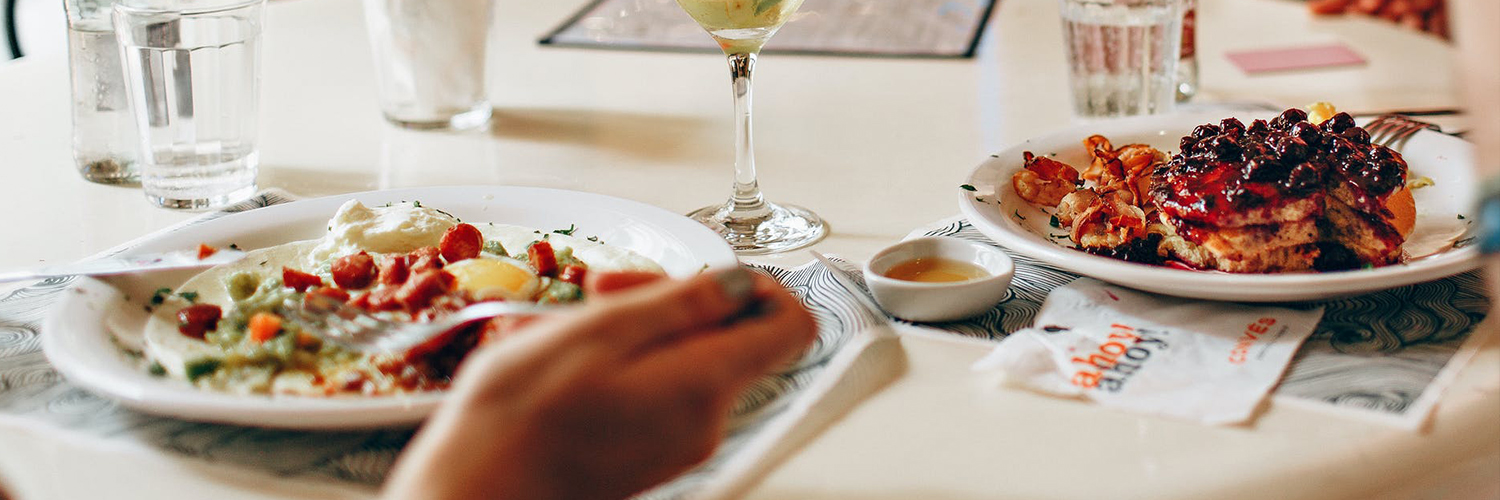
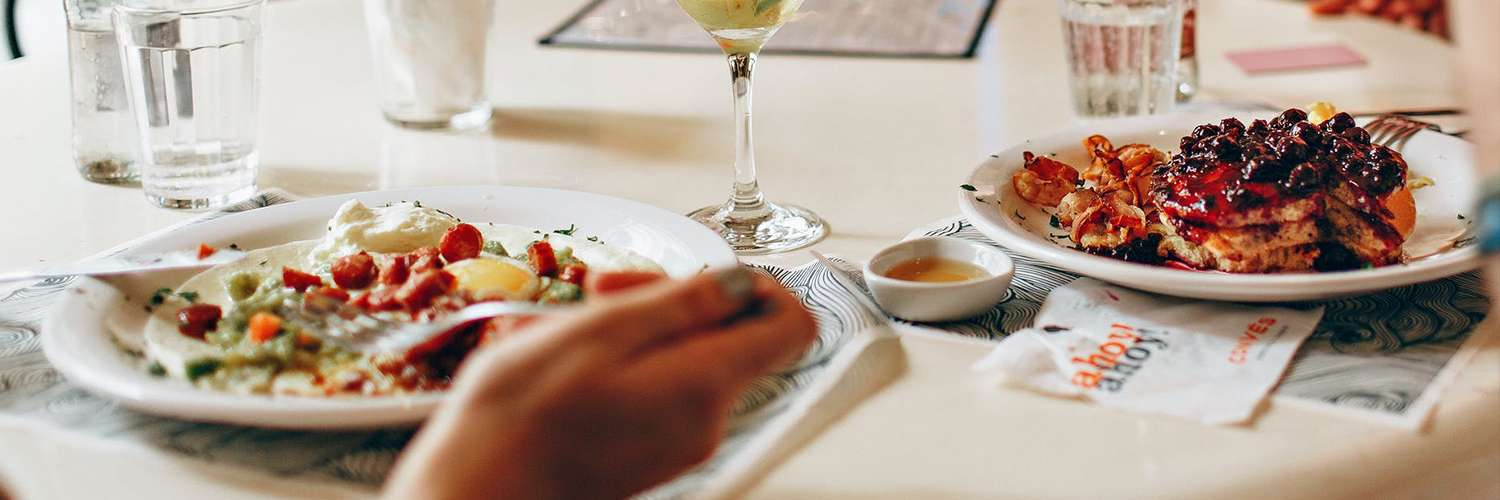
compressed all images using jpeg compressor to help with website load times and mb consumption.

diff --git a/index.html b/index.html
@@ -11,7 +11,7 @@
 </head>
 <body>
 
-    <!-----Nav Bar------------------------------------------->
+    <!----- Nav Bar ------------------------------------------->
 
     <header>
         <div class="container-fluid">
@@ -43,13 +43,13 @@
         </div>
     </header>
 
-    <!-----Hero image---------------------------------------->
+    <!----- Hero image ---------------------------------------->
 
     <div>
         <div class="hero"></div>
     </div>
 
-    <!-----Places of interest-------------------------------->
+    <!----- Places of interest -------------------------------->
 
     <section id="places">
         <br>
@@ -107,7 +107,7 @@
         </div>
     </section>
 
-    <!-----Mid 1 image--------------------------------------->
+    <!----- Mid 1 image --------------------------------------->
 
     <br>
     <hr>
@@ -119,7 +119,7 @@
     <hr>
     <br>
 
-    <!-----Shopping------------------------------------------>
+    <!----- Shopping ------------------------------------------>
 
     <section id="shopping">
         <div class="container-fluid">
@@ -163,7 +163,7 @@
         <br>
     </section>
 
-    <!-----Mid 1 image--------------------------------------->
+    <!----- Mid 1 image --------------------------------------->
 
     <br>
     <hr>
@@ -175,7 +175,7 @@
     <hr>
     <br>
 
-    <!-----Restaurants--------------------------------------->
+    <!----- Restaurants --------------------------------------->
 
     <section id="restaurants">
         <div class="container-fluid">
@@ -219,7 +219,7 @@
         </div>
     </section>
 
-    <!-----Bottom image--------------------------------------->
+    <!----- Bottom image --------------------------------------->
 
     <br>
     <hr>
@@ -231,7 +231,7 @@
     <hr>
     <br>
 
-    <!-----Contact------------------------------------------->
+    <!----- Contact ------------------------------------------->
 
     <section class="container-fluid" id="contact">
         <div class="row">
@@ -262,7 +262,7 @@
         <br>
     </section>
 
-    <!-----Footer-------------------------------------------->
+    <!----- Footer -------------------------------------------->
 
     <footer class="container-fluid container-footer">
         <div class="row">

diff --git a/assets/css/style.css b/assets/css/style.css
@@ -123,10 +123,6 @@ i {
     background-color: rgba(80, 139, 199, 1);
 }
 
-.fom-btn:hover {
-    background-color: rgba(8, 58, 109, 1);
-}
-
 /*---------------------- Places End ----------------------*/
 
 /*---------------------- Mid1 Image ----------------------*/
@@ -189,14 +185,17 @@ i {
     color: rgba(62, 224, 217, 0.7);
 }
 
+.fom-btn:hover {
+    background-color: rgba(8, 58, 109, 1);
+}
+
 .submitbtn:hover {
-    background-color: rgba(62, 224, 217, 0.7);
+    background-color: rgba(80, 139, 199, 1);
     border-color: #000;
-    color: #000;
 }
 
 i:hover {
-    color: rgba(62, 224, 217, 0.7);
+    color: rgba(80, 139, 199, 1);
 }
 
 /*---------------------- Hover End ----------------------*/
